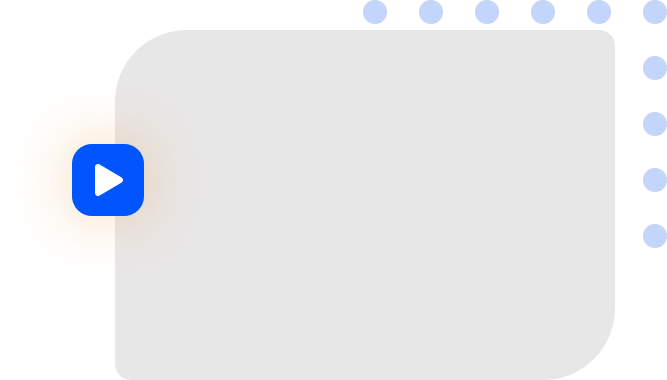
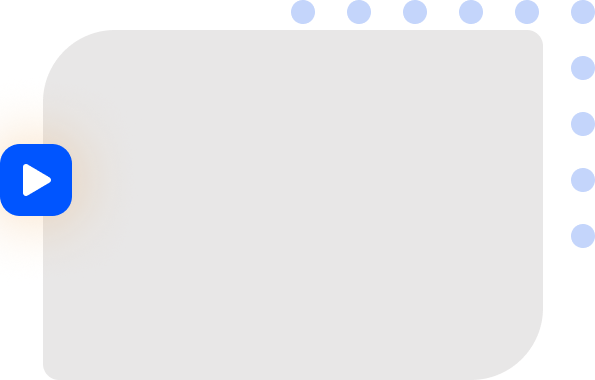
update

diff --git a/src/sections/Guide.tsx b/src/sections/Guide.tsx
@@ -6,13 +6,13 @@ const Guide = () => {
           <div className="order-first flex items-start justify-end lg:order-last">
             <img
               src="/assets/images/guide-image.png"
-              alt="Product screenshot"
-              className="w-[48rem] max-w-none sm:w-[57rem]"
-              width={667}
+              alt="guide image"
+              className="mx-auto"
+              width={595}
               height={380}
             />
           </div>
-          <div className="lg:ml-auto lg:pl-4 lg:pt-4">
+          <div className="lg:mr-auto lg:pr-4 lg:pt-4">
             <div className="lg:max-w-lg">
               <h2 className="mt-2 text-3xl font-bold tracking-tight text-gray-900 sm:text-4xl">
                 <span className="block text-center text-base font-semibold uppercase leading-7 text-epblue lg:text-left">
